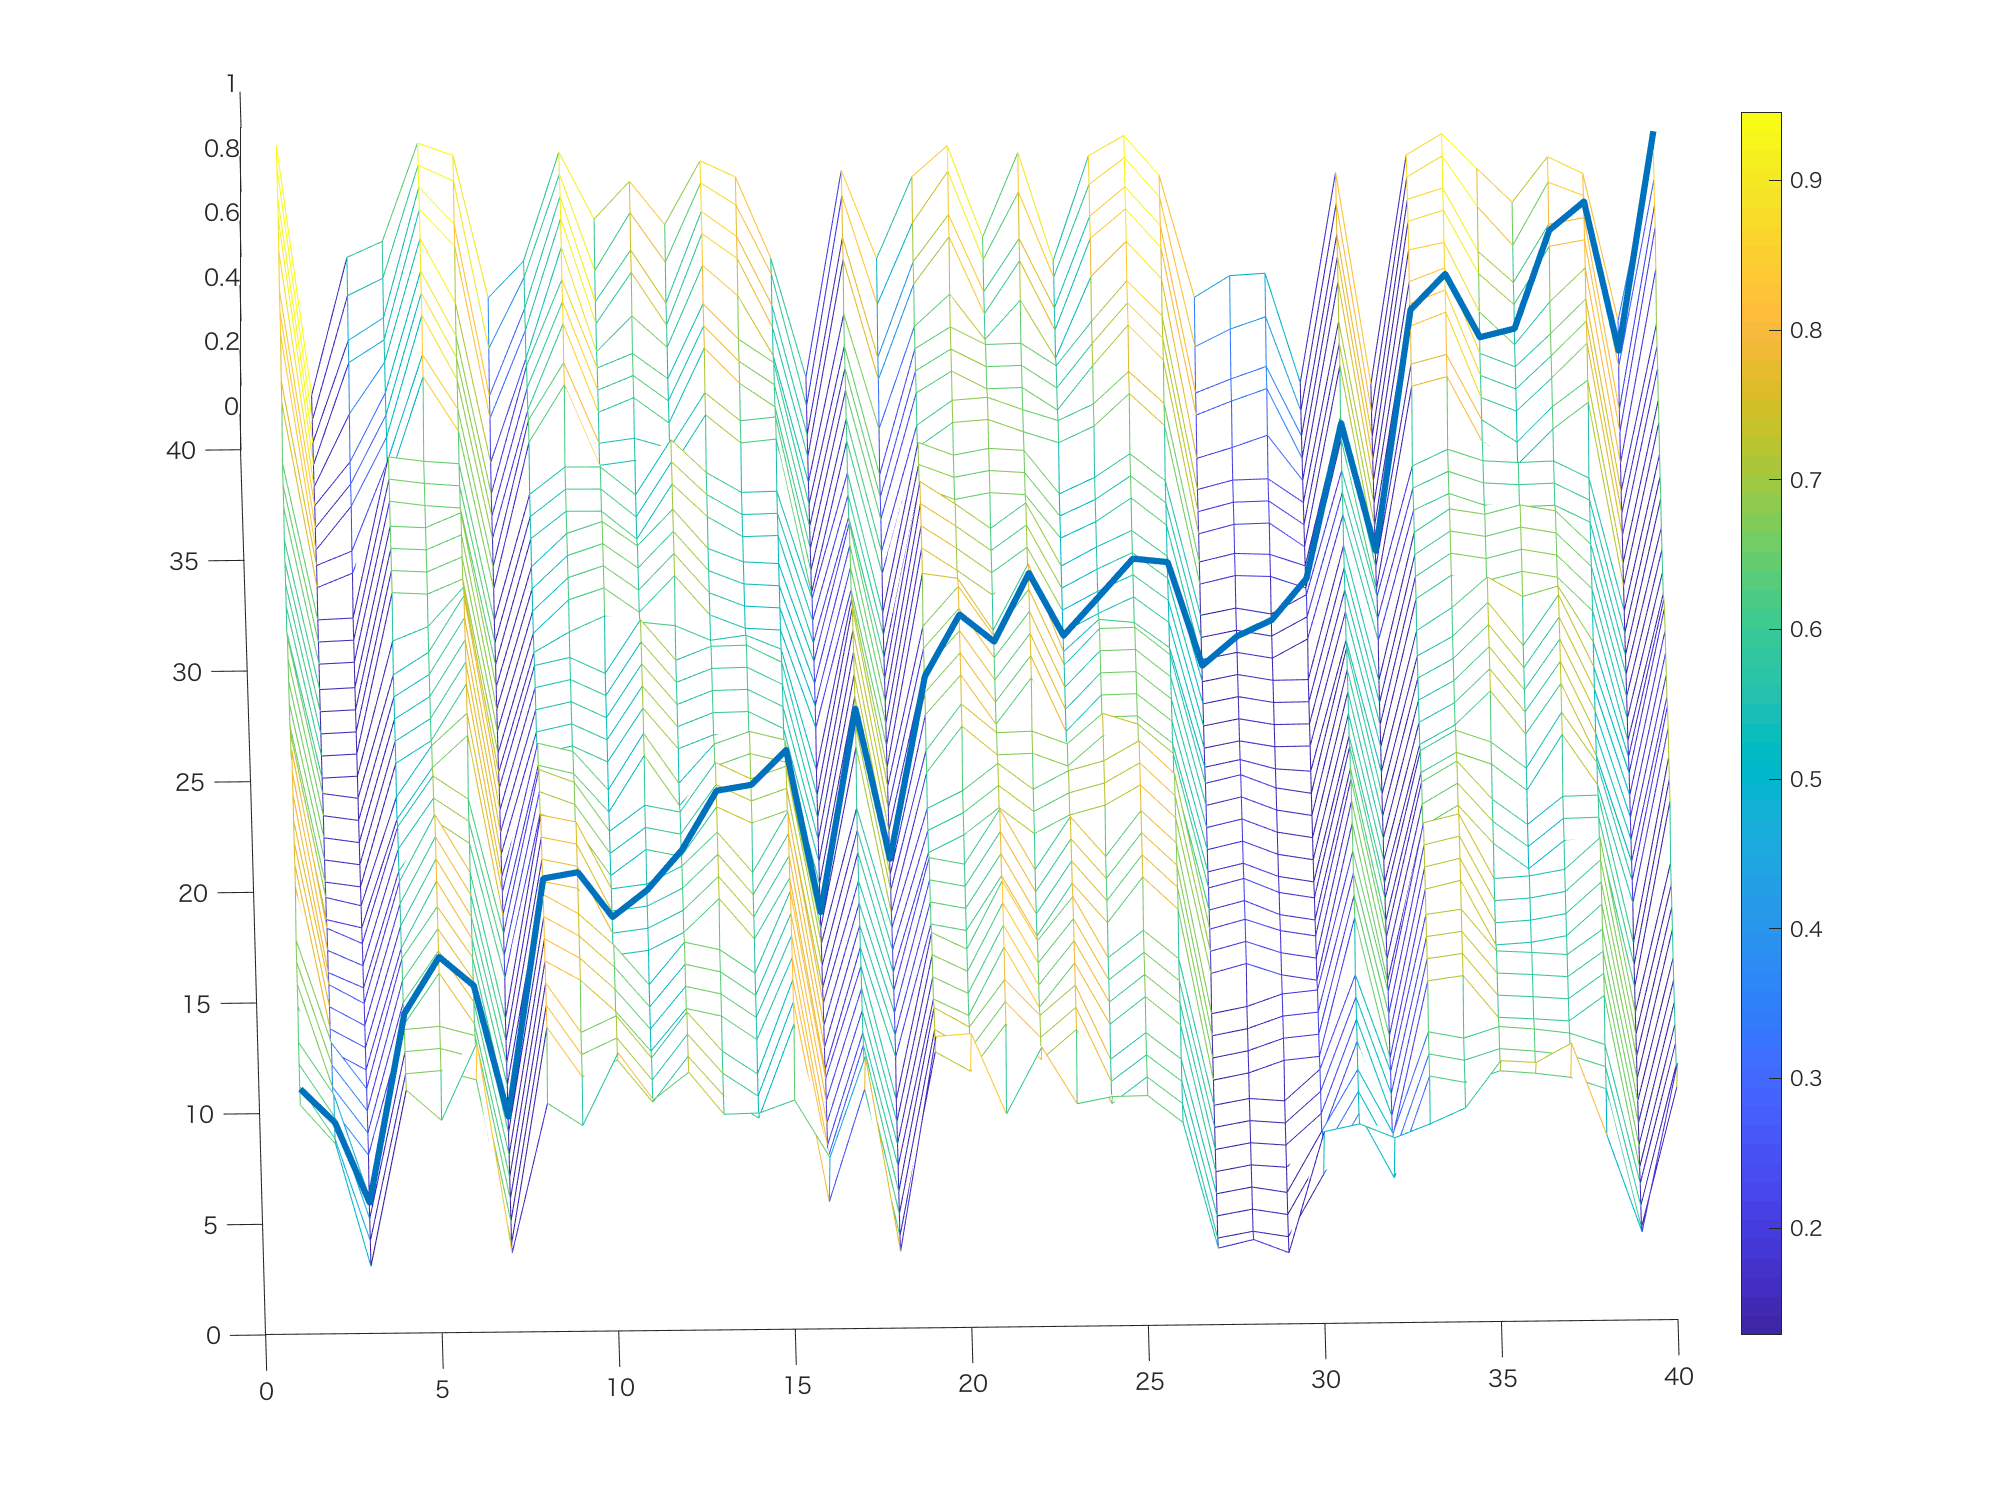
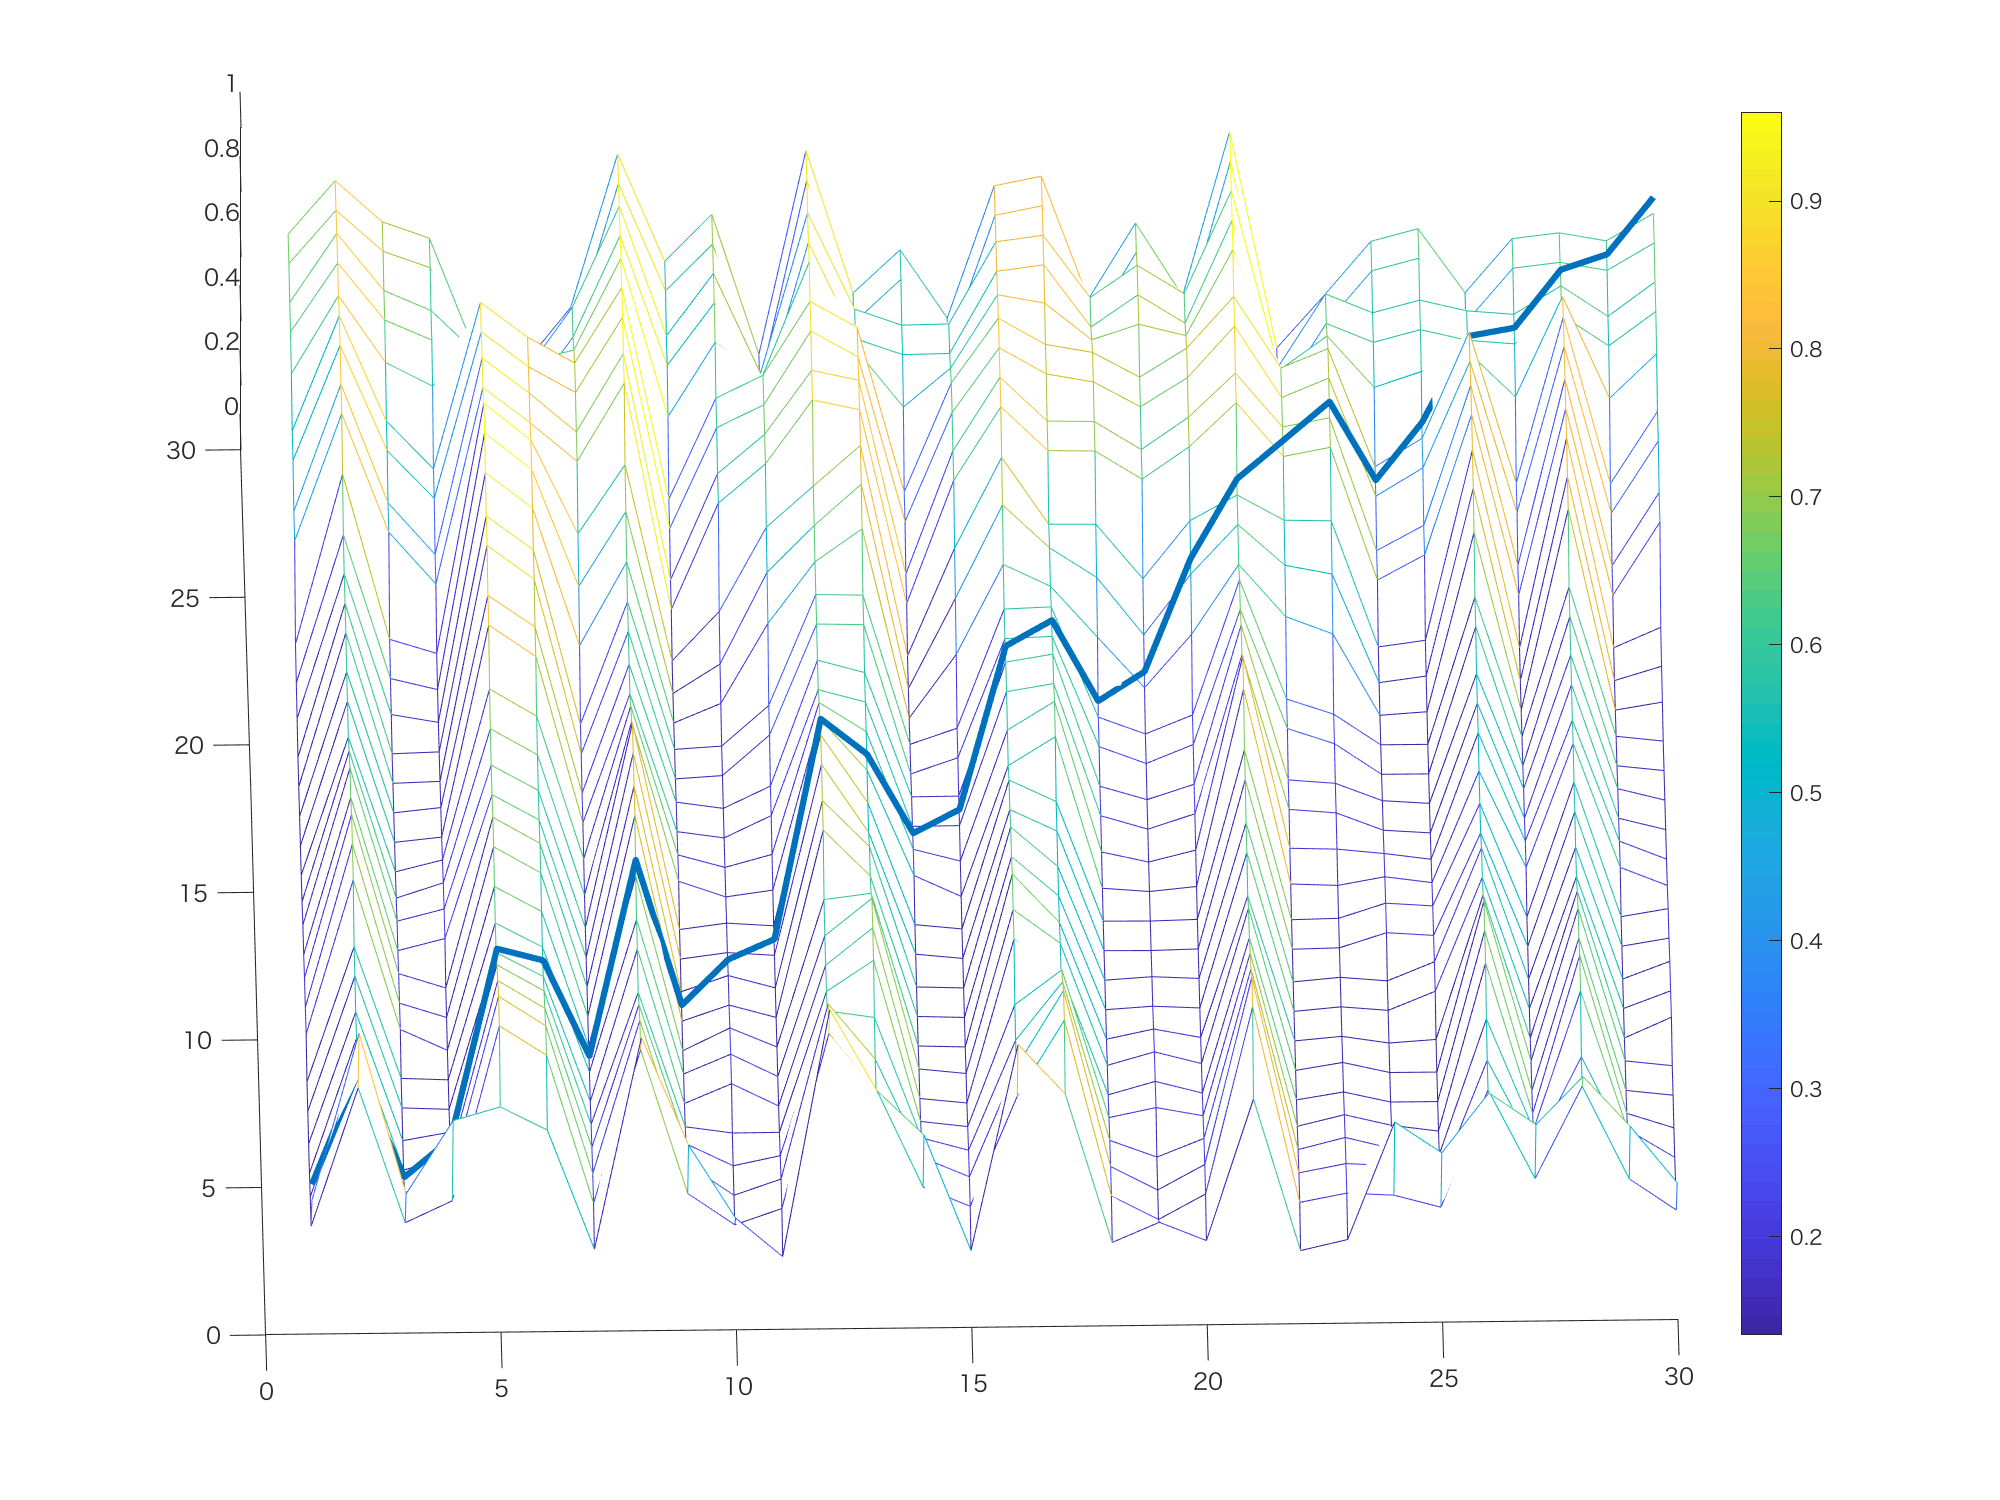
no message

Changed region(s): [[0.093, 0.092, 0.837, 0.828], [0.899, 0.2147, 0.93, 0.2453]]

diff --git a/main.m b/main.m
@@ -1,10 +1,11 @@
 clc;
 clear;
 close all;
+tic;
 
 %% Problem Definition
-N=40;   % Number of House
-fix=1;  % 0/1 value. 0: generate random structure with N. 1: Use Previous Setting.
+N=30;   % Number of House
+fix=0;  % 0/1 value. 0: generate random structure with N. 1: Use Previous Setting.
 
 model=CreateModel(fix,N);
 
@@ -15,7 +16,7 @@ par.MaxIt=300;      % Maximum Number of Iterations
 
 par.nAnt=50;        % Number of Ants (Population Size)
 
-par.aL = mean(model.D(2:end,1))*1.2;      % average of length per 1 package [m] (this value also means probability weighting of cost function)
+par.aL = mean(model.D(2:end,1));      % average of length per 1 package [m] (this value also means probability weighting of cost function)
 
 par.Dyn = 0;     % 0 or 1 value. 0:Static(Normal TSP) 1:Dynamic
 
@@ -62,58 +63,9 @@ PlotCompare(DynCost,StaCost,HPTour,par.aL,model)
 
 %% Plot the GPS Skip Tour
 RealTour.Sta = SkipTour(StaBestSol,HPTour.Sta);
-RealTour.Dyn = SkipTour(DynBestSol,HPTour.Sta);
+RealTour.Dyn = SkipTour(DynBestSol,HPTour.Dyn);
 PlotSkipSolution(StaBestSol,DynBestSol,RealTour,model)
 
-for i=1:1000
-RealTour.Sta = SkipTour(StaBestSol,HPTour.Sta);
-Cost.Sta = TourLength(RealTour.Sta,model);
-RealTour.Dyn = SkipTour(DynBestSol,HPTour.Sta);
-Cost.Dyn = TourLength(RealTour.Dyn,model);
-h1(1,i)=Cost.Sta;
-h2(1,i)=Cost.Dyn;
-n1(1,i)=numel(RealTour.Sta);
-n2(1,i)=numel(RealTour.Dyn);
-end
-figure('Position',[180 0 480*2 420*2])
-f1=subplot(2,3,1);
-hist1=histogram(h1)
-title('Static Length Histogram')
-xlabel(f1,'Length')
-ylabel(f1,'freauency')
+PlotHistogram(StaBestSol,DynBestSol,HPTour,model,par.aL,N)
 
-f2=subplot(2,3,2);
-hist2=histogram(h2)
-title('Dynamic Length Histogram')
-xlabel(f2,'Length')
-ylabel(f2,'freauency')
-
-f3=subplot(2,3,3);
-hist1=histogram(h1)
-hold on
-hist2=histogram(h2)
-title('Compare Length Histogram')
-xlabel(f3,'Length')
-ylabel(f3,'freauency')
-legend('Static','Dynamic')
-
-f4=subplot(2,3,4);
-hist3=histogram(n1)
-title('Static Delivered Success Number')
-xlabel(f4,'Number')
-ylabel(f4,'freauency')
-
-f5=subplot(2,3,5);
-hist4=histogram(n2)
-title('Dynamic Delivered Success Number')
-xlabel(f5,'Number')
-ylabel(f5,'freauency')
-
-f6=subplot(2,3,6);
-hist3=histogram(n1)
-hold on
-hist4=histogram(n2)
-title('Compare Delivered Success Number')
-xlabel(f6,'Number')
-ylabel(f6,'freauency')
-legend('Static','Dynamic')
+toc;

diff --git a/PlotHistogram.m b/PlotHistogram.m
@@ -1,0 +1,76 @@
+function PlotHistogram(StaBestSol,DynBestSol,HPTour,model,aL,N)
+for i=1:2000
+RealTour.Sta = SkipTour(StaBestSol,HPTour.Sta);
+Cost.Sta = TourLength(RealTour.Sta,model);
+RealTour.Dyn = SkipTour(DynBestSol,HPTour.Dyn);
+Cost.Dyn = TourLength(RealTour.Dyn,model);
+h1(1,i)=Cost.Sta;
+h2(1,i)=Cost.Dyn;
+n1(1,i)=numel(RealTour.Sta);
+n2(1,i)=numel(RealTour.Dyn);
+end
+figure('Position',[180 0 480*2 540*2])
+f1=subplot(2,3,1);
+hist1=histogram(h1);
+title('Static Length Histogram')
+xlabel(f1,'Length')
+ylabel(f1,'freauency')
+
+f2=subplot(2,3,2);
+hist2=histogram(h2);
+title('Dynamic Length Histogram')
+xlabel(f2,'Length')
+ylabel(f2,'freauency')
+
+f3=subplot(2,3,3);
+hist1=histogram(h1);
+hold on
+hist2=histogram(h2);
+title('Compare Length Histogram')
+xlabel(f3,'Length')
+ylabel(f3,'freauency')
+legend('Static','Dynamic')
+
+f4=subplot(2,3,4);
+hist3=histogram(n1);
+title('Static Delivered Success Number')
+xlabel(f4,'Number')
+ylabel(f4,'freauency')
+
+f5=subplot(2,3,5);
+hist4=histogram(n2);
+title('Dynamic Delivered Success Number')
+xlabel(f5,'Number')
+ylabel(f5,'freauency')
+
+f6=subplot(2,3,6);
+hist3=histogram(n1);
+hold on
+hist4=histogram(n2);
+title('Compare Delivered Success Number')
+xlabel(f6,'Number')
+ylabel(f6,'freauency')
+legend('Static','Dynamic')
+
+saveas(gcf,[pwd '/output/CompareHistogram.png'])
+
+%% 
+for i=1:2000
+RealTour.Sta = SkipTour(StaBestSol,HPTour.Sta);
+Cost.Sta = RealCostFunction(RealTour.Sta,model,aL,N);
+RealTour.Dyn = SkipTour(DynBestSol,HPTour.Sta);
+Cost.Dyn = RealCostFunction(RealTour.Dyn,model,aL,N);
+h(1,i)=Cost.Dyn/Cost.Sta;
+end
+M=mean(h);
+V=var(h);
+S=skewness(h);
+disp(M);
+disp(V);
+disp(S);
+figure
+hist = histogram(h);
+hist.Normalization = 'probability';
+
+
+end

diff --git a/CreateModel.m b/CreateModel.m
@@ -32,8 +32,13 @@ if fix == 0
     HD =@(k) HousewifeData(18+k:44+k)/100;
     ND =@(k) NeetData(18+k:44+k)/100;
     Data =@(k) [WD(k); HD(k); ND(k)];
+     %rate of job
+    NWD=56;
+    NHD=13;
+    NND=16;
+    Data =@(k) [repmat(WD(k),NWD,1); repmat(HD(k),NHD,1); repmat(ND(k),NND,1)];
     
-    ind=randi(3,n,1);
+    ind=randi(NWD+NHD+NND,n,1);  
     offset=randi(9,n,1)-5;
     gain = 0.9+0.2*rand(n,numel(WD));
     for i=1:n

diff --git a/RealCostFunction.m b/RealCostFunction.m
@@ -1,0 +1,5 @@
+function cost = RealCostFunction(tour,model,aL,N)
+
+    cost = TourLength(tour,model) + aL*(N-numel(tour));
+
+end
